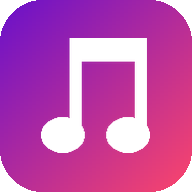
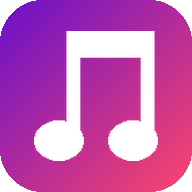
图标：音符放大至68%高度（原60%），保持水平姿态与精确居中

Changed region(s): [[0.1562, 0.1562, 0.8438, 0.8438]]

diff --git a/gen_icons.py b/gen_icons.py
@@ -72,7 +72,7 @@ def render_tilted_note(size, tilt=0, note_h_ratio=0.60):
     y = (size - target_h) // 2
     return note, (x, y)
 
-def draw_apple_style_note(img, size, note_h_ratio=0.60):
+def draw_apple_style_note(img, size, note_h_ratio=0.68):
     """在渐变背景上合成 Apple 风格水平音符（居中，两干等高）"""
     note, (x, y) = render_tilted_note(size, tilt=0, note_h_ratio=note_h_ratio)
     img.alpha_composite(note, (x, y))
@@ -81,7 +81,7 @@ def draw_apple_style_note(img, size, note_h_ratio=0.60):
 def make_icon(size):
     """渐变背景 + Apple 风格倾斜双音符 + 圆角"""
     img = gradient_bg(size).convert('RGBA')
-    draw_apple_style_note(img, size, 0.60)
+    draw_apple_style_note(img, size, 0.68)
     # 圆角蒙版
     mask = Image.new('L', (size, size), 0)
     mdraw = ImageDraw.Draw(mask)
@@ -94,7 +94,7 @@ def make_icon(size):
 def make_maskable(size):
     """maskable 图标：全幅渐变背景 + 音符缩到 42% 居中（留足 safe area）"""
     bg = gradient_bg(size).convert('RGBA')
-    draw_apple_style_note(bg, size, 0.42)
+    draw_apple_style_note(bg, size, 0.48)
     return bg
 
 sizes = {
